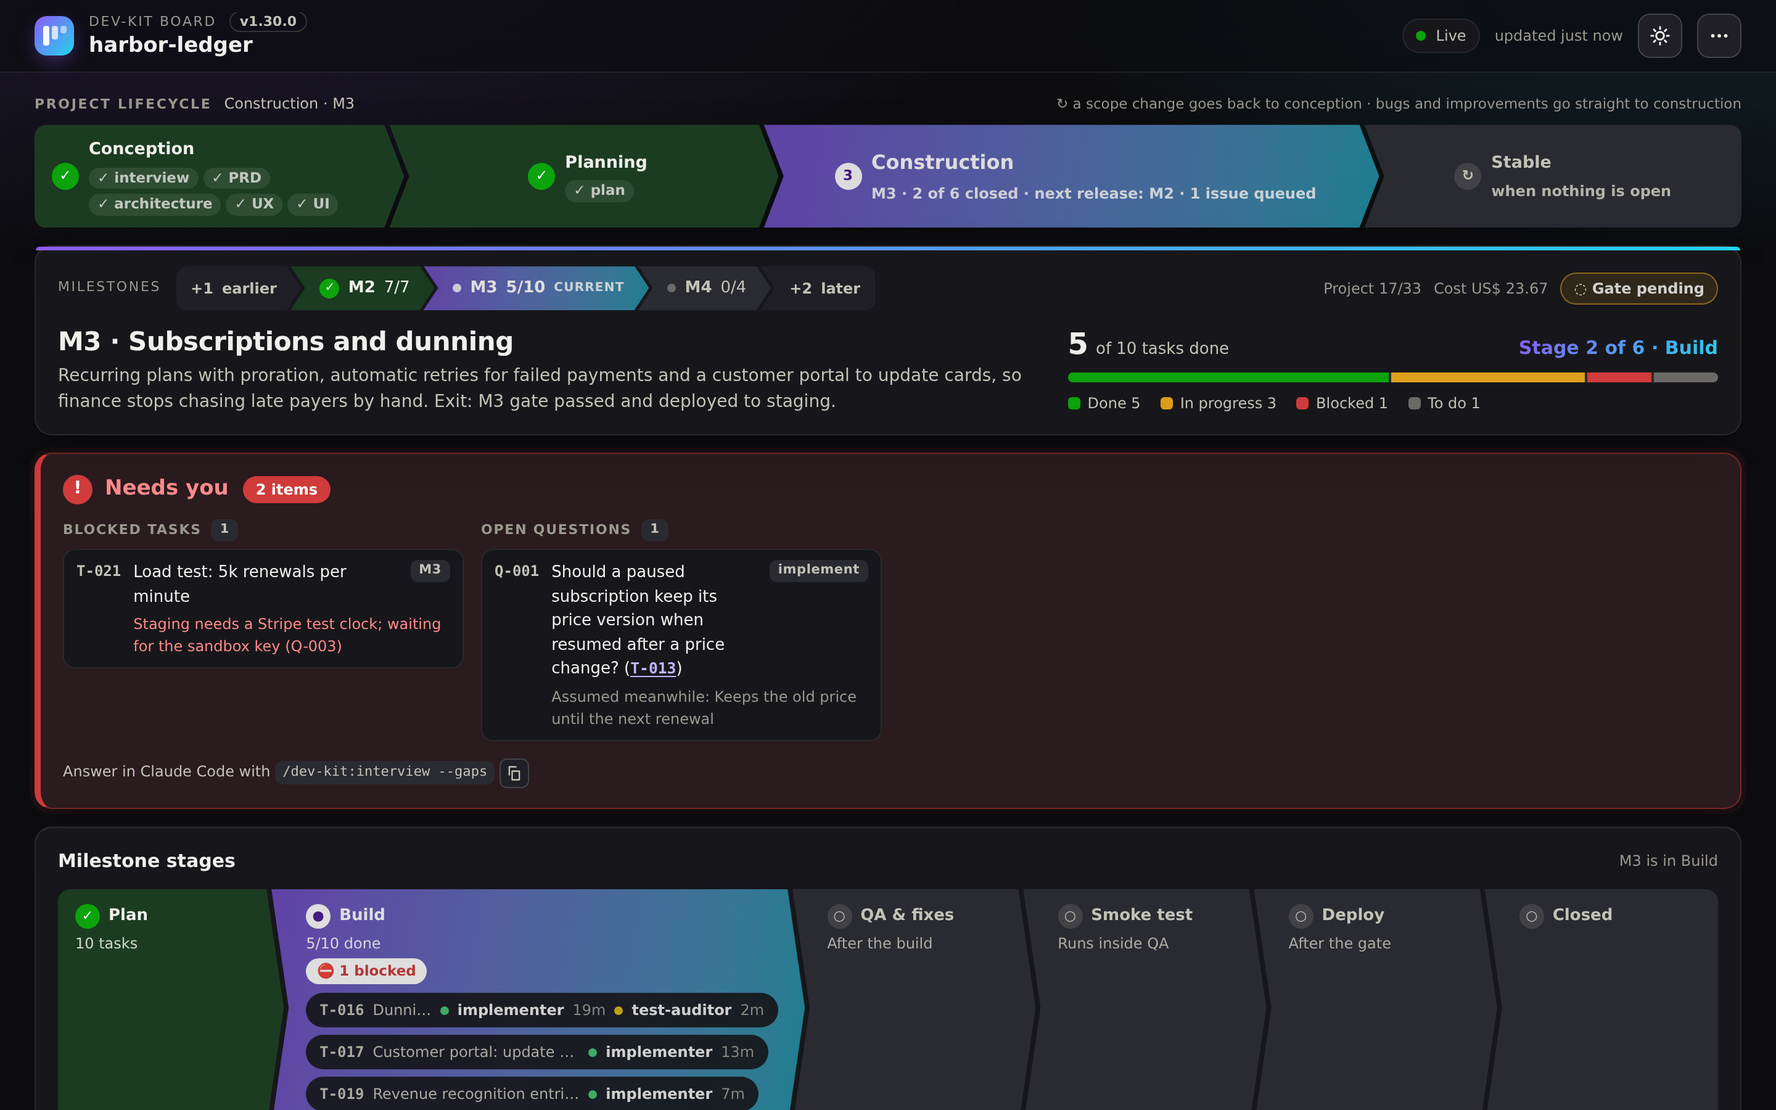
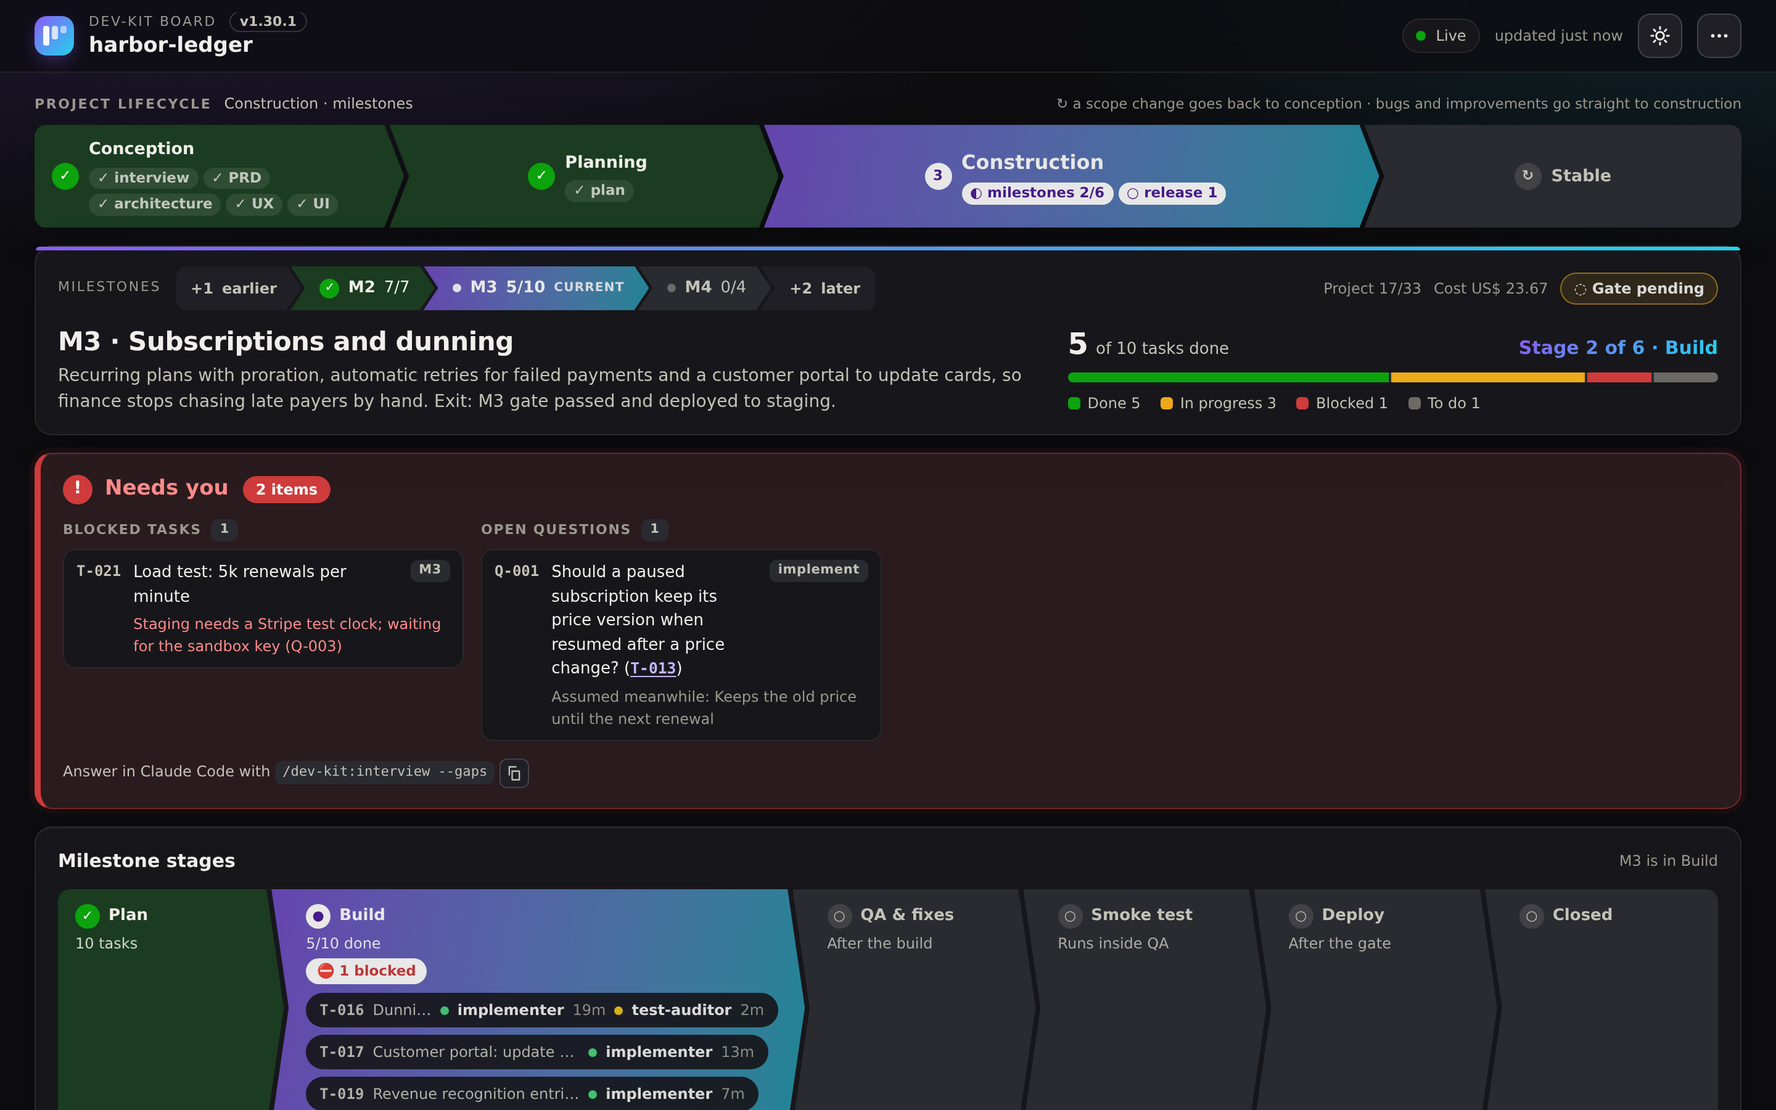
dev-kit 1.30.1: lifecycle bar with finite stages and sub-stages
Construction shows two sub-stages like the other phases, milestones and
release, each with a short count (milestones 9/12, release 9); the
current milestone, the ids waiting for the release and the queued issues
move to the tooltip, so the bar no longer grows with the project.

Changed region(s): [[0.4688, 0.1244, 0.75, 0.1867], [0.8438, 0.1244, 0.9375, 0.1867]]

diff --git a/.claude/plugins/dev-kit/skills/core/shared/board/board.js b/.claude/plugins/dev-kit/skills/core/shared/board/board.js
@@ -13,7 +13,8 @@
   // project lifecycle (conventions.md §19): conception -> planning -> construction -> stable, as a cycle
   const PHASE_NAME = { conception: "Conception", planning: "Planning", construction: "Construction", stable: "Stable" };
   const PHASE_WORD = { done: "done", current: "current phase", active: "still running", upcoming: "not started" };
-  const STEP_NAME = { interview: "interview", prd: "PRD", architecture: "architecture", ux: "UX", ui: "UI", plan: "plan" };
+  const STEP_NAME = { interview: "interview", prd: "PRD", architecture: "architecture", ux: "UX", ui: "UI", plan: "plan",
+    milestones: "milestones", release: "release" };
   const STEP_WORD = { todo: "to do", doing: "in progress", stale: "out of date", review: "waiting for its review", done: "done", skipped: "skipped" };
   const STEP_MARK = { todo: "○", doing: "◐", stale: "↻", review: "◐", done: "✓", skipped: "–" };
 
@@ -243,36 +244,25 @@
     renderLifecycle();
   }
 
-  /** One line under each phase: its steps (conception, planning), the milestone and release train (construction). */
+  /** The finite sub-stages of a phase as pills (✓ ◐ ○ ↻), each with at most a short count; details in the tooltip. */
   function phaseDetail(p) {
-    if (p.steps) {
-      return h("span", { class: "lc-steps" }, p.steps.map((x) =>
-        h("span", { class: `lc-step s-${x.state}`, title: `${STEP_NAME[x.key]}: ${STEP_WORD[x.state]}${x.note ? ` (${x.note})` : ""}` },
-          h("span", { "aria-hidden": "true", text: STEP_MARK[x.state] }), ` ${STEP_NAME[x.key]}`,
-          h("span", { class: "visually-hidden", text: ` ${STEP_WORD[x.state]};` }))));
-    }
-    if (p.key === "construction") {
-      const bits = [];
-      const live = p.milestones.filter((m) => m.state !== "empty");
-      if (live.length) bits.push(`${p.current_milestone && p.state !== "done" ? `${p.current_milestone} · ` : ""}${p.closed} of ${live.length} closed`);
-      else if (p.state !== "upcoming") bits.push("no tasks planned");
-      const r = p.release;
-      if (r.milestones.length) bits.push(`next release: ${r.milestones.join(", ")}`);
-      else if (r.last) bits.push(`released ${r.last.tag || r.last.version || "before"}`);
-      if (p.queue.length) bits.push(plural(p.queue.length, "issue") + " queued");
-      return h("span", { class: "lc-note", text: bits.join(" · ") || "milestones M1, M2… after planning" });
-    }
-    return h("span", { class: "lc-note", text: p.state === "current" ? "nothing open, everything released" : "when nothing is open" });
+    if (!p.steps || !p.steps.length) return null;
+    return h("span", { class: "lc-steps" }, p.steps.map((x) =>
+      h("span", { class: `lc-step s-${x.state}`, title: `${STEP_NAME[x.key]}: ${STEP_WORD[x.state]}${x.note ? ` (${x.note})` : ""}` },
+        h("span", { "aria-hidden": "true", text: STEP_MARK[x.state] }), ` ${STEP_NAME[x.key]}`,
+        x.count ? h("span", { class: "lc-count", text: ` ${x.count}` }) : null,
+        h("span", { class: "visually-hidden", text: ` ${STEP_WORD[x.state]}${x.note ? `, ${x.note}` : ""};` }))));
   }
 
   function renderLifecycle() {
     const lc = data.cycle;
     const idx = lc.phases.findIndex((p) => p.key === data.phase);
     const cur = lc.phases[idx];
-    const step = data.step ? (STEP_NAME[data.step] || data.step) : "";
+    // the sub-stage in progress, never a milestone id: the bar names only finite stages and sub-stages
+    const sub = cur && cur.steps ? (cur.steps.find((x) => !["done", "skipped"].includes(x.state)) || null) : null;
+    const step = sub ? STEP_NAME[sub.key] : "";
     $("phase-step").textContent = `${PHASE_NAME[data.phase]}${step ? ` · ${step}` : ""}`
-      + (data.reopened ? " · reopened by a change, construction goes on" : "")
-      + (cur && cur.key === "construction" && lc.release.milestones.length && lc.release.ready ? " · release ready" : "");
+      + (data.reopened ? " · reopened by a change, construction goes on" : "");
     fill($("phases"), lc.phases.map((p, i) => {
       const here = i === idx;
       const st = p.state === "active" ? "current" : p.state === "current" ? "current" : p.state;

diff --git a/.claude/plugins/dev-kit/skills/core/shared/board/board.css b/.claude/plugins/dev-kit/skills/core/shared/board/board.css
@@ -376,7 +376,7 @@ button.run-chip:hover { background: var(--surface-3); }
 .lc-step.s-skipped { opacity: .5; text-decoration: line-through; }
 .lc-step.s-todo, .lc-step.s-doing, .lc-step.s-stale, .lc-step.s-review { background: color-mix(in srgb, currentColor 24%, transparent); }
 .chev.here .lc-step.s-todo, .chev.here .lc-step.s-doing, .chev.here .lc-step.s-stale, .chev.here .lc-step.s-review { background: #fff; color: #4c1d95; }
-.lc-note { font-size: 12px; font-weight: 550; white-space: nowrap; overflow: hidden; text-overflow: ellipsis; opacity: .9; }
+.lc-count { font-variant-numeric: tabular-nums; font-weight: 750; }
 .lc-tag { margin-left: 8px; font-size: 10.5px; font-weight: 750; letter-spacing: .06em; text-transform: uppercase; padding: 2px 6px; border-radius: 6px;
   background: color-mix(in srgb, var(--warning) 55%, transparent); color: var(--text-primary); vertical-align: 2px; }
 .chev.here .lc-tag { background: #fff; color: #4c1d95; }
@@ -522,7 +522,7 @@ dialog p { color: var(--text-secondary); }
   .workspace { grid-template-columns: minmax(0, 1fr); }
   .feed { flex: none; max-height: 420px; min-height: 0; }
   /* lifecycle: only the current phase keeps its details; the others show their name (details in the tooltip) */
-  .phase-chevrons .chev:not(.here) .lc-steps, .phase-chevrons .chev:not(.here) .lc-note { display: none; }
+  .phase-chevrons .chev:not(.here) .lc-steps { display: none; }
   .phase-chevrons .chev.lc:not(.here) { flex: 0 1 auto; min-height: 52px; }
   .phase-cycle { display: none; }
   .ms-top { flex-wrap: wrap; }
@@ -563,7 +563,6 @@ dialog p { color: var(--text-secondary); }
   .phase-step { flex-basis: 100%; }
   .phase-chevrons .chev.here .chev-name { white-space: normal; }
   .lc-tag { display: inline-block; margin: 2px 0 0; }
-  .lc-note { white-space: normal; }
   .ms-top { flex-wrap: wrap; }
   .ms-label { display: none; }
   .tabs-row { flex-basis: 100%; --tip: 10px; }

diff --git a/.claude/plugins/dev-kit/skills/core/scripts/dev_state.py b/.claude/plugins/dev-kit/skills/core/scripts/dev_state.py
@@ -2972,17 +2972,52 @@ def lifecycle(store: Store) -> dict:
         return "upcoming" if p == "construction" and not ever_built else "done"
 
     closed = sum(1 for x in mlist if x["state"] in ("closed", "released"))
+    live = [x for x in mlist if x["total"]]
     phases = [
         {"key": "conception", "state": pstate("conception"), "reopened": bool(pending["conception"]) and ever_built,
          "steps": [steps[k] for k in CONCEPTION_STEPS]},
         {"key": "planning", "state": pstate("planning"), "reopened": bool(pending["planning"]) and ever_built,
          "steps": [steps[k] for k in PLANNING_STEPS]},
         {"key": "construction", "state": pstate("construction"), "reopened": False, "current_milestone": cur,
-         "milestones": mlist, "closed": closed, "queue": queue, "release": train},
+         "milestones": mlist, "closed": closed, "queue": queue, "release": train,
+         "steps": construction_steps(live, closed, open_ms, cur, train, queue, ever_built)},
         {"key": "stable", "state": pstate("stable"), "reopened": False},
     ]
     return {"phase": phase, "step": step, "reopened": phase in ("conception", "planning") and ever_built,
             "steps": steps, "phases": phases, "release": train, "queue": queue}
+
+
+def _ms_range(ids: list[str]) -> str:
+    """M1, M2, M3, M5 -> "M1–M3, M5": a short label however many milestones wait."""
+    nums = sorted(int(m[1:]) for m in ids)
+    runs: list[list[int]] = []
+    for n in nums:
+        if runs and n == runs[-1][-1] + 1:
+            runs[-1].append(n)
+        else:
+            runs.append([n])
+    return ", ".join(f"M{r[0]}" if len(r) == 1 else f"M{r[0]}–M{r[-1]}" for r in runs)
+
+
+def construction_steps(live: list[dict], closed: int, open_ms: list[str], cur: str | None, train: dict,
+                       queue: list[str], ever_built: bool) -> list[dict]:
+    """The two finite sub-stages of construction for the board: milestones and release, each with a short count;
+    milestone ids and the queue go only into the note (a tooltip), so the bar never grows with the project."""
+    ms_state = "doing" if open_ms else "done" if ever_built else "todo"
+    note = (f"{cur} in progress · " if open_ms and cur else "") + f"{closed} of {len(live)} closed"
+    if queue:
+        note += f" · {len(queue)} issue{'s' if len(queue) != 1 else ''} queued"
+    waiting = train["milestones"]
+    if waiting:
+        rel_state = "doing" if train["ready"] else "todo"
+        rel_note = f"{_ms_range(waiting)} waiting for the release" + ("" if train["ready"] else
+                                                                     f" · after {', '.join(train['waiting_for'])}")
+    else:
+        last = train["last"]
+        rel_state = "done" if last else "todo"
+        rel_note = (f"last: {last.get('tag') or last.get('version') or 'released'}" if last else "no release yet")
+    return [{"key": "milestones", "state": ms_state, "count": f"{closed}/{len(live)}" if live else None, "note": note},
+            {"key": "release", "state": rel_state, "count": str(len(waiting)) if waiting else None, "note": rel_note}]
 
 
 def phase_label(store: Store, lc: dict | None = None) -> str:

diff --git a/.claude/plugins/dev-kit/skills/core/tests/test_dev_state.py b/.claude/plugins/dev-kit/skills/core/tests/test_dev_state.py
@@ -446,6 +446,9 @@ class TestLifecycle(Base):
         self.run_state("gate", "M1", "passed", "--score", "90")
         rel = self.lifecycle()["lifecycle"]["release"]
         self.assertEqual(rel["milestones"], ["M1"])
+        sub = {x["key"]: x for x in self.phases()["construction"]["steps"]}
+        self.assertEqual((sub["milestones"]["state"], sub["milestones"]["count"]), ("doing", "1/2"))
+        self.assertEqual((sub["release"]["state"], sub["release"]["count"]), ("doing", "1"))  # M2 not started: can ship now
         self.assertEqual(self.run_state("status", "--next").stdout.strip(), "/dev-kit:implement")  # M2 first
         self.run_state("done", "T-003", "--force")
         self.run_state("gate", "M2", "passed", "--score", "90")
@@ -458,7 +461,13 @@ class TestLifecycle(Base):
         self.assertEqual(nxt(), "/dev-kit:review docs")
         self.run_state("review", "docs", "pass", "--score", "90")
         self.assertEqual(nxt(), "/dev-kit:release")
+        sub = {x["key"]: x for x in self.phases()["construction"]["steps"]}
+        self.assertEqual((sub["milestones"]["state"], sub["milestones"]["count"]), ("done", "2/2"))
+        self.assertEqual((sub["release"]["state"], sub["release"]["count"]), ("doing", "2"))
+        self.assertIn("M1–M2 waiting", sub["release"]["note"])
         self.assertIn("M1, M2", self.run_state("release-record", "--version", "1.0.0").stdout)
+        sub = {x["key"]: x for x in self.phases()["construction"]["steps"]}
+        self.assertEqual((sub["release"]["state"], sub["release"]["count"]), ("done", None))
         self.assertEqual(self.state()["phase"], "stable")
         self.assertEqual(self.state()["releases"][0]["tag"], "v1.0.0")
         self.run_state("release-record", "--version", "1.0.1", expect=1)  # nothing left to release

diff --git a/.claude/plugins/dev-kit/skills/core/tests/test_dev_board.py b/.claude/plugins/dev-kit/skills/core/tests/test_dev_board.py
@@ -629,6 +629,7 @@ class BoardTest(unittest.TestCase):
         self.assertEqual(d["lifecycle"], {"local_deploy": "off", "deploy_when": "none", "max_fix_rounds": 3})
         self.assertEqual([p["key"] for p in d["cycle"]["phases"]], ["conception", "planning", "construction", "stable"])
         self.assertEqual((d["phase"], d["step"]), ("conception", "interview"))  # no brief yet
+        self.assertEqual([x["key"] for x in d["cycle"]["phases"][2]["steps"]], ["milestones", "release"])
         self.assertIsNone(d["milestones"][0]["deploy"])
         self.assertEqual(state_file.read_bytes(), before)
 

diff --git a/.claude/plugins/dev-kit/docs/concepts.md b/.claude/plugins/dev-kit/docs/concepts.md
@@ -39,7 +39,7 @@ A product built by agents is never "finished" in a straight line: after the firs
 - **Construction** is where the product is built, one milestone after the other. Building and QA are not project phases: they repeat inside every milestone (plan → build → QA & fixes → smoke → deploy → closed). Closed milestones wait in the **release train** until a release ships them: `usability` (apps with a UI), `docs`, `review docs`, then `release`, cut between milestones so no work is half built.
 - **Stable** means nothing is open: no milestone in progress, no queued issue, every closed milestone released. The next issue starts the cycle again.
 
-The phase is **derived** from what `.dev/` already holds (artifacts, reviews, gates, issues, releases), never set by hand, so it cannot go backwards by mistake. When a scope change edits the PRD, conception shows as *reopened* (from the PRD on) and planning after it, while the milestone already in construction keeps going; once the changes are reviewed and replanned, the project is back in construction. `/dev-kit:status` shows the phase and step (`conception · prd`, `construction · M3`, `stable`) and the release train; the board draws the four phases with the steps inside each; `status --next` names the command that moves the cycle forward. An existing codebase goes through an onboarding first (below). See the [flow diagram](dev-kit-flow.png).
+The phase is **derived** from what `.dev/` already holds (artifacts, reviews, gates, issues, releases), never set by hand, so it cannot go backwards by mistake. When a scope change edits the PRD, conception shows as *reopened* (from the PRD on) and planning after it, while the milestone already in construction keeps going; once the changes are reviewed and replanned, the project is back in construction. `/dev-kit:status` shows the phase and step (`conception · prd`, `construction · M3`, `stable`) and the release train; the board draws the four phases with their finite sub-stages; `status --next` names the command that moves the cycle forward. An existing codebase goes through an onboarding first (below). See the [flow diagram](dev-kit-flow.png).
 
 Milestones (M1, M2, …) are the cadence of construction: `M2` starts only after the `M1` gate passes, a milestone whose gate passed takes no new task, and nothing ever inserts or renumbers a milestone. A task removed by a replan is `dropped` (kept for history, never counted).
 
@@ -113,7 +113,7 @@ Optionally, each approved milestone can run locally on `127.0.0.1` (`keep_runnin
 
 ## The board
 
-`/dev-kit:board` opens a live dashboard of the project in the browser: the project lifecycle as four chevrons (conception, planning, construction, stable) with the steps inside each (✓ done, ◐ in progress or waiting for its review, ↻ out of date after a change, "reopened" when a scope change sent the project back), the current milestone and the release train inside construction; the milestones as chevrons (previous, current and next; the others in "earlier"/"later" lists), a "Needs you" strip only when something waits on you, the stages of the milestone as chevrons too (plan → build → QA & fixes → smoke test → deploy → closed; smoke and deploy only when enabled), where QA & fixes shows its rounds (R1 ✕ 89 → 1 fix ✓ → R2 running) and the auditors of the running round, with what is running and what comes next on the stage it belongs to; the milestone goal, its stage instead of a task percentage, and the task kanban (filterable, 3 cards per column with "Show all", running agents on the cards and a details panel per task, linkable as `#T-nnn`), insights tabs for quality, burndown, velocity and backlog, and the activity feed beside them; light, dark or following the system. One server per project, stopped from the page's ⋯ menu or with `stop`, and by itself after 2 idle hours.
+`/dev-kit:board` opens a live dashboard of the project in the browser: the project lifecycle as four chevrons (conception, planning, construction, stable) with their finite sub-stages: interview, PRD, architecture, UX and UI; plan; milestones and release (✓ done, ◐ in progress or waiting for its review, ↻ out of date after a change, "reopened" when a scope change sent the project back). Construction shows only short counts (`milestones 9/12`, `release 9` waiting), with the milestone ids in the tooltip, so the bar does not grow with the project; the milestones as chevrons (previous, current and next; the others in "earlier"/"later" lists), a "Needs you" strip only when something waits on you, the stages of the milestone as chevrons too (plan → build → QA & fixes → smoke test → deploy → closed; smoke and deploy only when enabled), where QA & fixes shows its rounds (R1 ✕ 89 → 1 fix ✓ → R2 running) and the auditors of the running round, with what is running and what comes next on the stage it belongs to; the milestone goal, its stage instead of a task percentage, and the task kanban (filterable, 3 cards per column with "Show all", running agents on the cards and a details panel per task, linkable as `#T-nnn`), insights tabs for quality, burndown, velocity and backlog, and the activity feed beside them; light, dark or following the system. One server per project, stopped from the page's ⋯ menu or with `stop`, and by itself after 2 idle hours.
 
 **Requests to Claude Code.** The page can also ask for work: ▶ next to a command ("Next step" included) queues it, Needs you takes the answer to an open question (its options, the recommended one first), Requests has New issue, Pause queue and Go on by itself, and the Plan tab lets you drag tasks not started and open issues between open milestones, add the next milestone and send the draft. The board never changes the project itself: `dev_worker.py` keeps the queue and `/dev-kit:worker`, run in a Claude Code session, executes the requests one at a time; questions that would stop it come back to the board (board mode, conventions §10).
 

diff --git a/README.md b/README.md
@@ -21,7 +21,7 @@ You answer one thorough interview. The kit then writes the PRD, architecture and
 <p align="center">
   <picture>
     <source media="(prefers-color-scheme: dark)" srcset=".github/assets/dev-kit-board-dark.png">
-    <img src=".github/assets/dev-kit-board.png" alt="dev-kit board of a sample project: the project lifecycle as four chevrons (conception and planning done with their steps ticked, construction current at M3 with 2 of 6 milestones closed, M2 waiting in the release train and one issue queued, stable next), the milestones as chevrons with the current one between its neighbours, its goal and stage, a highlighted Needs you strip with one blocked task and one open question, and the milestone stages as chevrons with three implementer agents and a test auditor running in the Build stage" width="900">
+    <img src=".github/assets/dev-kit-board.png" alt="dev-kit board of a sample project: the project lifecycle as four chevrons (conception and planning done with their steps ticked, construction current with its two sub-stages, milestones 2 of 6 closed and one milestone waiting for the release, stable next), the milestones as chevrons with the current one between its neighbours, its goal and stage, a highlighted Needs you strip with one blocked task and one open question, and the milestone stages as chevrons with three implementer agents and a test auditor running in the Build stage" width="900">
   </picture>
   <br>
   <sub><code>/dev-kit:board</code> shows the build in <b>real time</b> in your browser: where the project is in its lifecycle, what needs you, the stage of the milestone with what is running in it (QA rounds included), then the task kanban, quality gates, burndown and activity.</sub>

diff --git a/.claude/plugins/dev-kit/CHANGELOG.md b/.claude/plugins/dev-kit/CHANGELOG.md
@@ -2,6 +2,14 @@
 
 All notable changes to the dev-kit plugin. Versions follow `.claude-plugin/plugin.json`. Entries before 1.12.0 were reconstructed from the git history.
 
+## 1.30.1 — 2026-11-20
+
+The board's lifecycle bar shows only finite stages and sub-stages.
+
+### Changed
+- Board: Construction gets two sub-stages like the other phases, **milestones** and **release**, each with a short count (`milestones 9/12` closed, `release 9` waiting in the train). The current milestone, the ids waiting for the release and the queued issues move to the tooltip. Before, the chevron printed `M10 · 9 of 12 closed · next release: M1, M2, … · 4 issues queued`, which grew with the project and got cut off. Stable shows only its name, and the title says the sub-stage (`Construction · milestones`) instead of a milestone id.
+- `dev_state.py`: in `status --json` → `lifecycle.phases`, construction lists `steps` (`milestones`, `release`) with `state`, `count` and `note`. Phase, step, status line and next command are unchanged.
+
 ## 1.30.0 — 2026-11-20
 
 The project phase becomes a lifecycle that runs as a cycle: conception → planning → construction → stable. Building and QA belong to each milestone, releases ship a train of closed milestones, and a scope change reopens conception without stopping construction. The phase is derived from `.dev/`, never set by hand.
